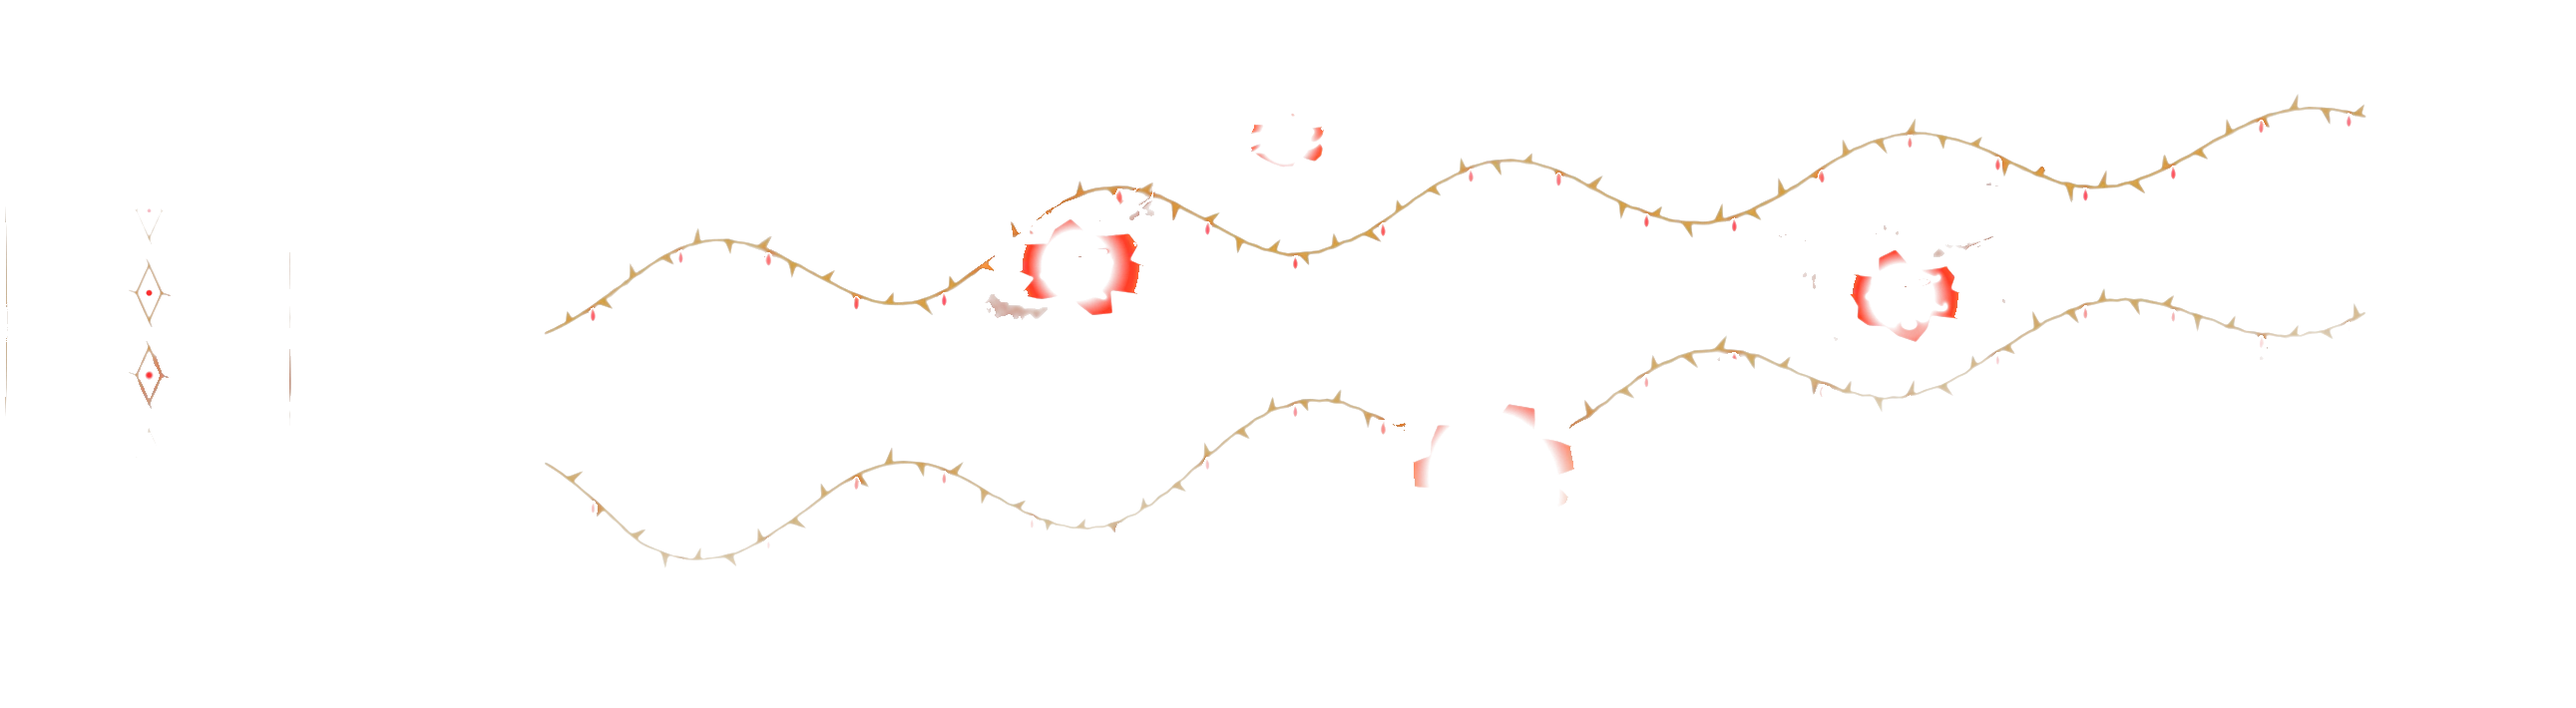
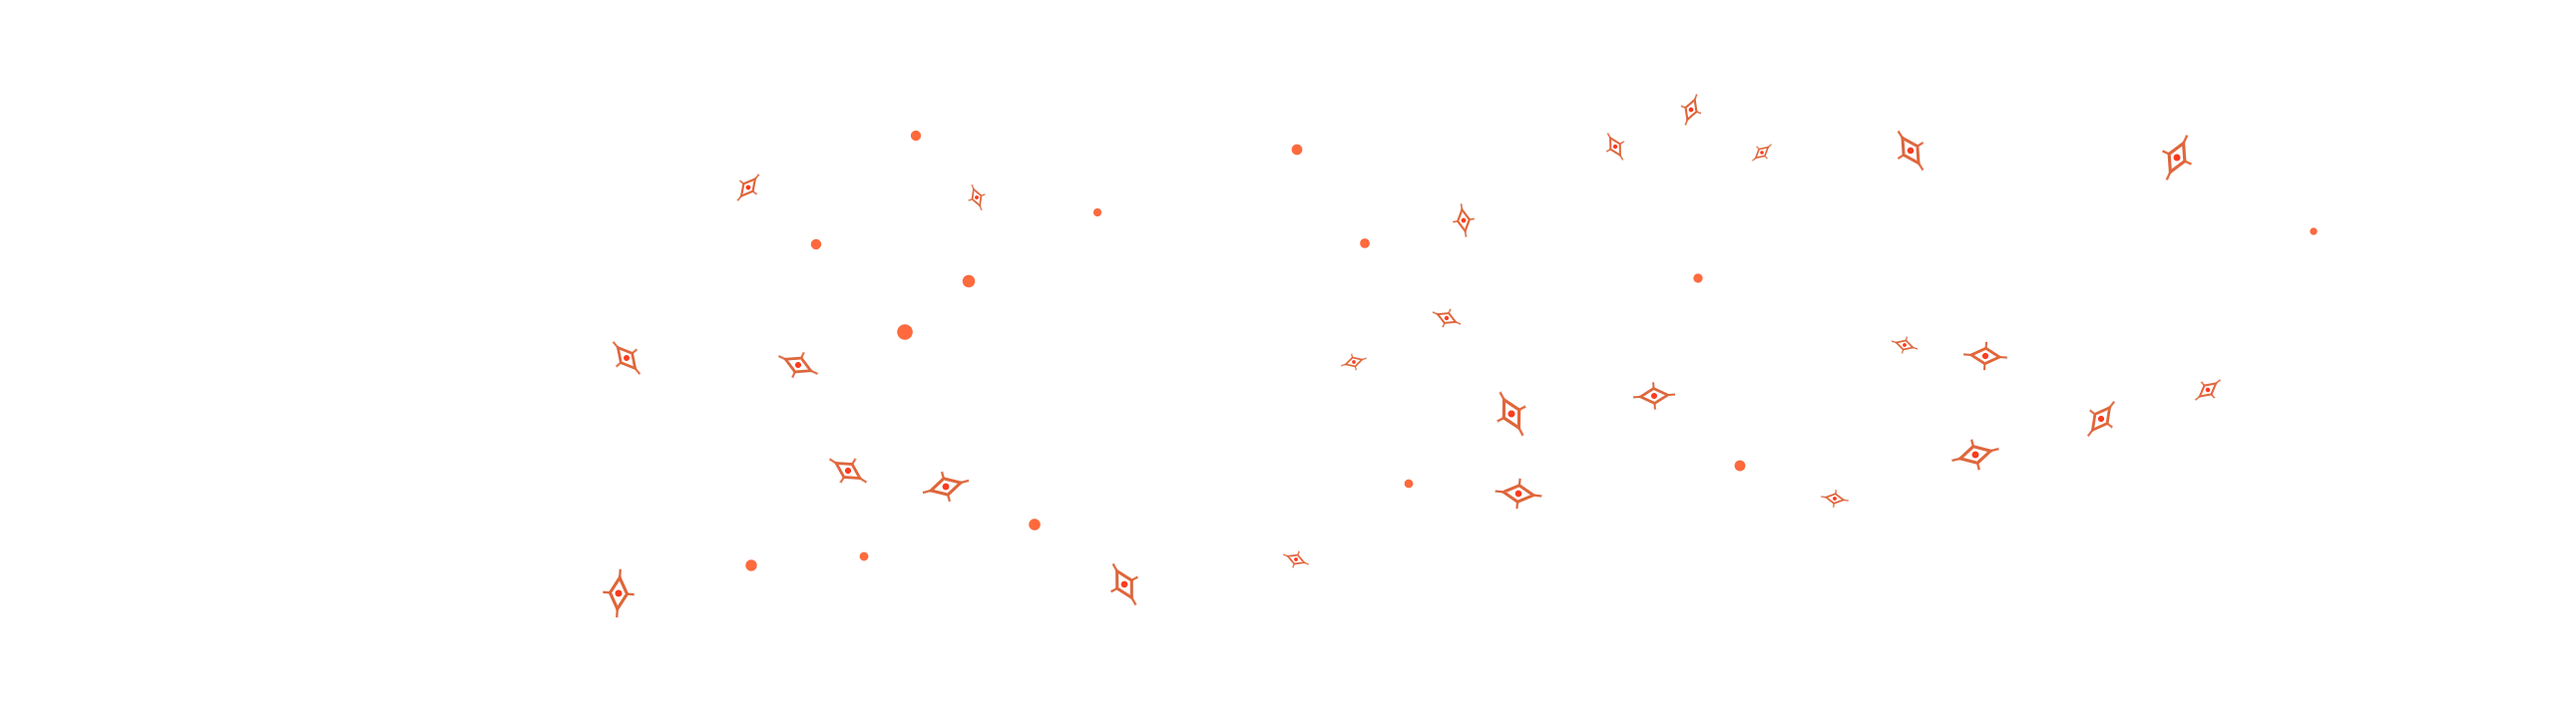
Series vault: scattered calm glow marks on both sleeves

diff --git a/index.html b/index.html
@@ -939,9 +939,9 @@ body[data-world="sr2"]{--w-bg:#0d1d27;--w-ink:#eef8ff;--w-mute:#a9c7d6;--w-nav-b
 .vt-fxw{position:absolute;width:0;height:0;z-index:4;pointer-events:none}
 /* تطريز الكمّين يضيء وحده فوق الظلام */
 .vt-glo{position:absolute;max-width:none;display:block;pointer-events:none;mix-blend-mode:screen;animation:vtGlo 4.6s ease-in-out infinite alternate}
-.vt-fxw.an .vt-glo{filter:drop-shadow(0 0 3px #fff1b0) drop-shadow(0 0 9px #cfe8907a)}
-.vt-fxw.dm .vt-glo{filter:drop-shadow(0 0 3px #ff7a40) drop-shadow(0 0 9px #ff2a1a7a);animation-duration:3.4s}
-@keyframes vtGlo{from{opacity:.42}to{opacity:.82}}
+.vt-fxw.an .vt-glo{filter:drop-shadow(0 0 4px #fff8e0) drop-shadow(0 0 12px #fff1c466)}
+.vt-fxw.dm .vt-glo{filter:drop-shadow(0 0 4px #ff6a3c) drop-shadow(0 0 12px #ff2a1a55);animation-duration:3.8s}
+@keyframes vtGlo{from{opacity:.4}to{opacity:.78}}
 .vt-fxw.dm{left:16px;top:41%}.vt-fxw.an{right:16px;top:calc(41% + 4vh)}
 .vt-fxw.dm .vt-fx{left:-2vw}.vt-fxw.an .vt-fx{right:-2vw}
 .vt-fx i{position:absolute;left:var(--x);top:var(--y);width:var(--s);height:var(--s);opacity:0;will-change:transform,opacity}
